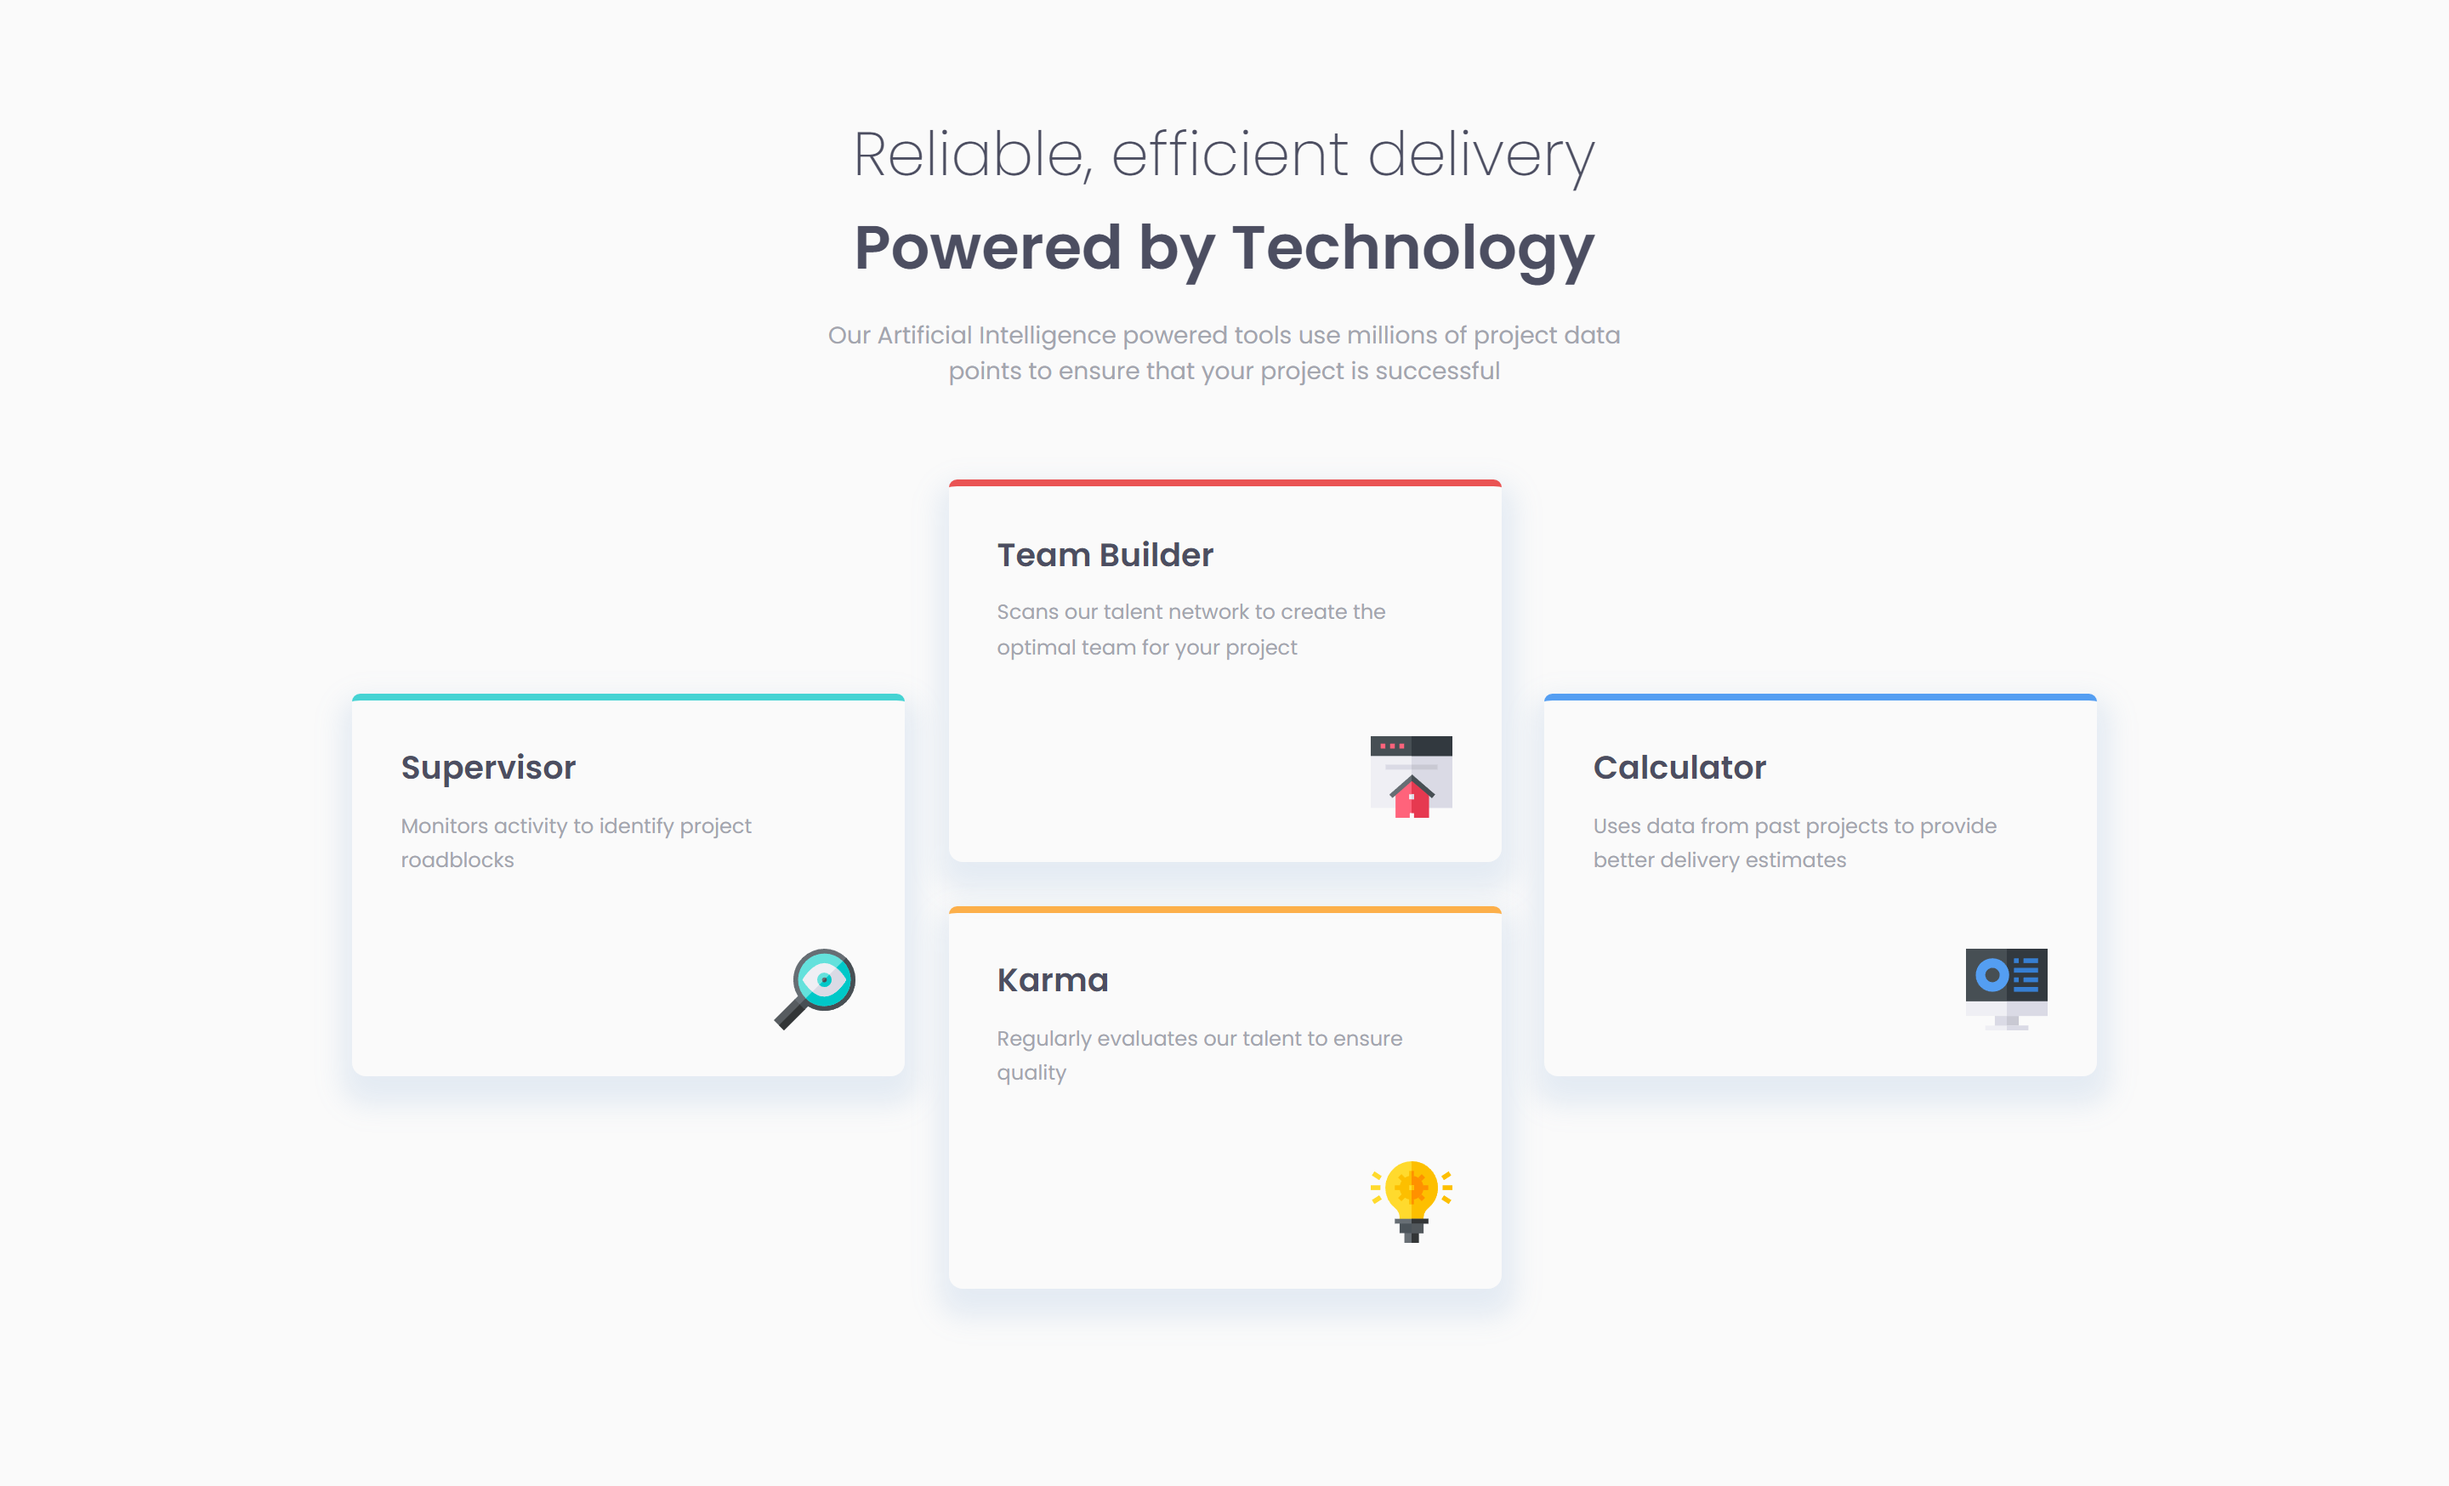
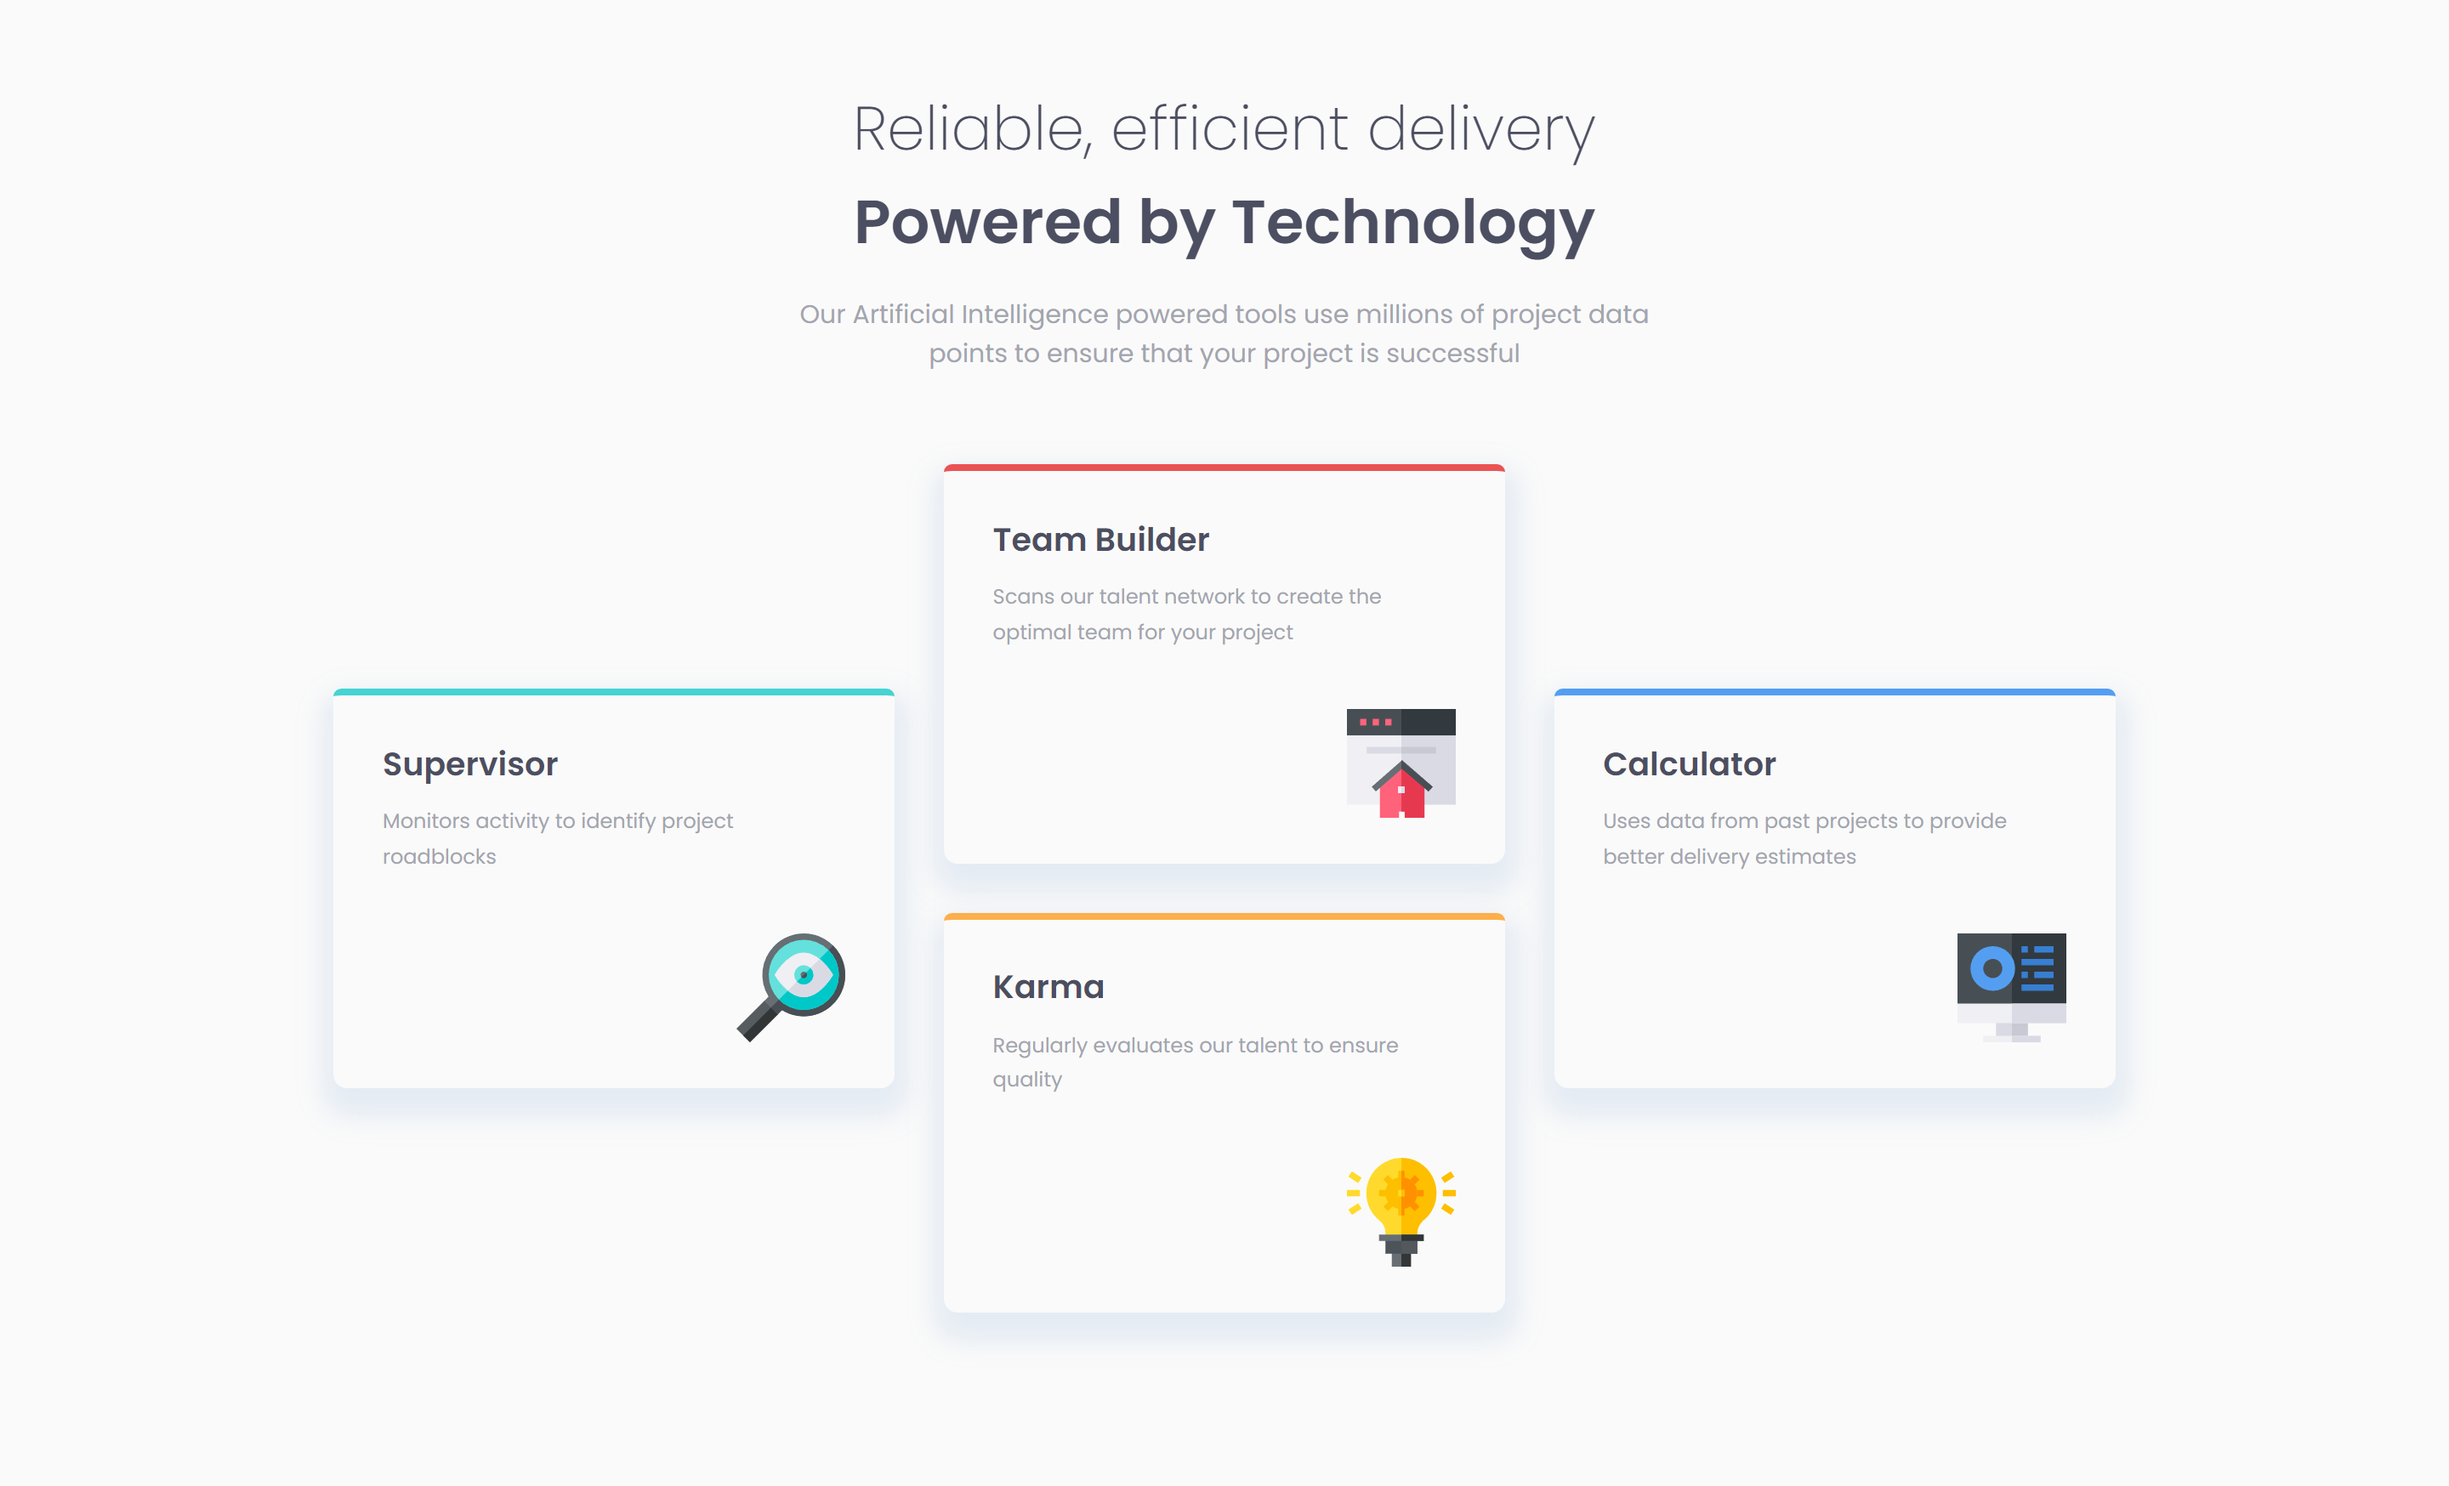
Updated index.html, styles.css and screenshot.jpg

diff --git a/four-card-feature-section-master/styles.css b/four-card-feature-section-master/styles.css
@@ -31,18 +31,18 @@ body {
 
 p {
   font-weight: 400;
-  font-size: 14px;
+  font-size: 15px;
   color: var(--grayish-blue);
 }
 
-h2,
-h3 {
+h1,
+h2 {
   font-size: 36px;
   font-weight: 600;
   color: var(--dark-blue);
 }
 
-.header__title--thin {
+.heading__title--thin {
   font-weight: 200;
 }
 
@@ -52,22 +52,22 @@ h3 {
   font-size: 12px;
 }
 
-.cards__types h3 {
+.cards__types h2 {
   font-size: 19px;
 }
 
-/* Header Section */
+/* Header / Heading */
 
-.header {
+.heading {
   width: 35%;
   text-align: center;
 }
 
-.header p {
+.heading p {
   margin-top: 1em;
 }
 
-/* Cards Section */
+/* Main / Cards */
 
 .cards {
   width: 85%;
@@ -86,10 +86,10 @@ h3 {
   display: flex;
   flex-direction: column;
   align-items: flex-start;
-  margin: 0.8em;
+  margin: 0.9em;
   padding: 1.6em 1.8em;
-  width: 325px;
-  height: 225px;
+  width: 330px;
+  height: 235px;
   border-top: 4px solid;
   border-radius: 0.3em 0.3em 0.5em 0.5em;
   box-shadow: 1px 10px 15px 7px var(--box-shadow-blue);
@@ -97,8 +97,7 @@ h3 {
 
 .cards__types img {
   align-self: flex-end;
-  width: 18%;
-  margin-top: 15.5%;
+  margin-top: 13%;
 }
 
 .cards__types--cyan {
@@ -124,7 +123,7 @@ h3 {
     justify-content: unset;
   }
 
-  .header {
+  .heading {
     padding-top: 5em;
   }
 
@@ -140,11 +139,11 @@ h3 {
     font-size: 13px;
   }
 
-  h2 {
+  h1 {
     font-size: 21px;
   }
 
-  .header {
+  .heading {
     width: 80%;
   }
 
@@ -154,8 +153,7 @@ h3 {
   }
 
   .cards__types img {
-    margin-top: 15.5%;
-    width: 20%;
+    margin-top: 8%;
   }
 }
 
@@ -164,11 +162,11 @@ h3 {
     font-size: 14px;
   }
 
-  h2 {
+  h1 {
     font-size: 24px;
   }
 
-  .header {
+  .heading {
     width: 80%;
   }
 
@@ -177,8 +175,7 @@ h3 {
   }
 
   .cards__types img {
-    margin-top: 17%;
-    width: 18%;
+    margin-top: 14%;
   }
 }
 
@@ -187,11 +184,11 @@ h3 {
     font-size: 14px;
   }
 
-  h2 {
+  h1 {
     font-size: 28px;
   }
 
-  .header {
+  .heading {
     width: 85%;
   }
 
@@ -200,16 +197,16 @@ h3 {
   }
 
   .cards__types img {
-    margin-top: 17%;
+    margin-top: 14%;
   }
 }
 
 @media (min-width: 768px) and (max-width: 1439px) {
-  h2 {
+  h1 {
     font-size: 34px;
   }
 
-  .header {
+  .heading {
     width: 60%;
   }
 
@@ -218,7 +215,6 @@ h3 {
   }
   .cards__types img {
     margin-top: 17%;
-    width: 15%;
   }
   .cards__types--red img {
     margin-top: 11%;

diff --git a/four-card-feature-section-master/index.html b/four-card-feature-section-master/index.html
@@ -17,41 +17,41 @@
     <title>Frontend Mentor | Four card feature section</title>
   </head>
   <body>
-    <div class="header">
-      <h2 class="header__title header__title--thin">
+    <header class="heading">
+      <h1 class="heading__title heading__title--thin">
         Reliable, efficient delivery
-      </h2>
-      <h2>Powered by Technology</h2>
+      </h1>
+      <h1>Powered by Technology</h1>
       <p>
         Our Artificial Intelligence powered tools use millions of project data
         points to ensure that your project is successful
       </p>
-    </div>
-    <div class="cards">
+    </header>
+    <main class="cards">
       <div class="cards__types cards__types--cyan">
-        <h3>Supervisor</h3>
+        <h2>Supervisor</h2>
         <p>Monitors activity to identify project roadblocks</p>
         <img src="images/icon-supervisor.svg" alt="" />
       </div>
       <div class="cards__wrapper">
         <div class="cards__types cards__types--red">
-          <h3>Team Builder</h3>
+          <h2>Team Builder</h2>
           <p>
             Scans our talent network to create the optimal team for your project
           </p>
           <img src="images/icon-team-builder.svg" alt="" />
         </div>
         <div class="cards__types cards__types--orange">
-          <h3>Karma</h3>
+          <h2>Karma</h2>
           <p>Regularly evaluates our talent to ensure quality</p>
           <img src="images/icon-karma.svg" alt="" />
         </div>
       </div>
       <div class="cards__types cards__types--blue">
-        <h3>Calculator</h3>
+        <h2>Calculator</h2>
         <p>Uses data from past projects to provide better delivery estimates</p>
         <img src="images/icon-calculator.svg" alt="" />
       </div>
-    </div>
+    </main>
   </body>
 </html>
